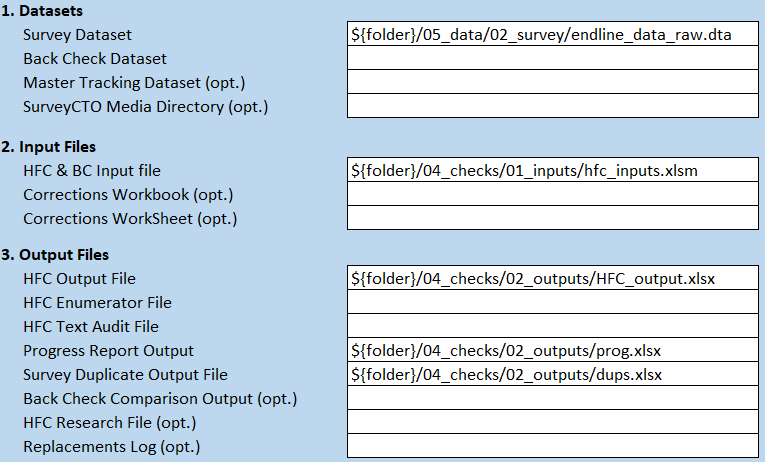
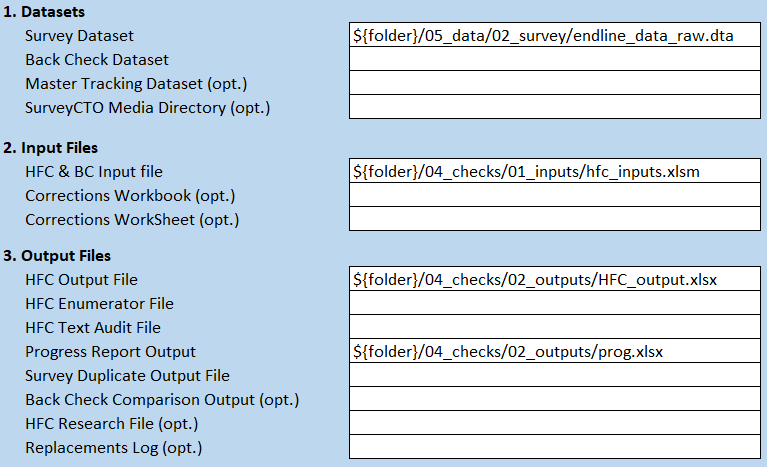
do not use IPA duplicate report

diff --git a/Material/Labs/Stata-Track-1/Lab 4 - Data Quality Checks/presentation/topic4.tex b/Material/Labs/Stata-Track-1/Lab 4 - Data Quality Checks/presentation/topic4.tex
@@ -305,6 +305,17 @@ Alternative installation fir WB computers
 	\end{columns}
 \end{frame}
 
+\begin{frame}{IPA's HFC: Use folder global in master\_check}
+\begin{columns}[c]
+	
+	\column{.25\linewidth}
+	\small Similarly, still in \texttt{master\_check.do} find this section and comment it out, i.e. add the two lines with \texttt{HERE}, line 4 and 11.
+	
+	\column{.75\linewidth}
+	\codeexample{dups-not-use.do}{code/dups-not-use.do}
+\end{columns}
+\end{frame}
+
 
 \begin{frame}{IPA's HFC: Set-up hfc\_inputs.xlsm}
 	
